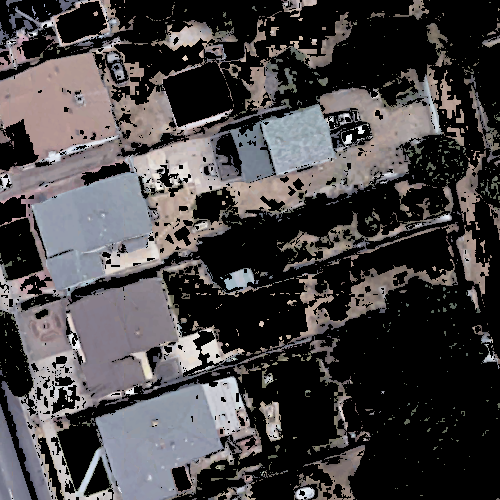
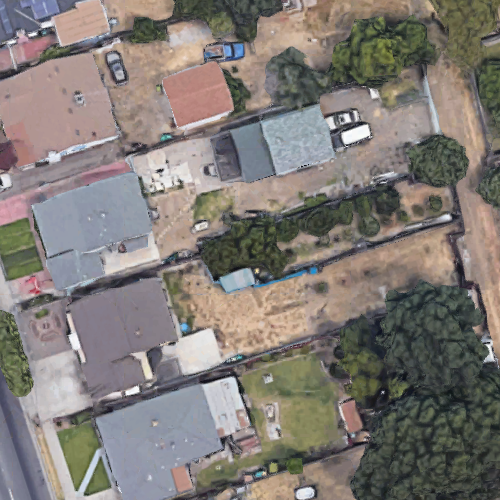
minimal

diff --git a/Satellite-CV/src/city.py b/Satellite-CV/src/city.py
@@ -8,6 +8,7 @@ import pandas
 import numpy as np
 import random
 from PIL import Image
+from src.shapedetector import ShapeDetector
 
 
 class City():
@@ -22,13 +23,12 @@ class City():
     __init__; find_green; crop_images; find_roofs; find_contours
 
     This class' local variables will eventually be used in the final dataframe,
-    which can be done through main.py. 
+    which can be done through main.py.
 
     """
 
     def __init__(self, name):
         self.name = name
-
         self.contoured = None
         self.contours = 0
         self.albedo = 0
@@ -63,6 +63,7 @@ class City():
 
             im1 = im.crop((left, top, right, bottom))
             im1.save(UserInputs.CROPPED_IMG_PATH + file)
+        print("____________IMAGES INITIALIZED____________")
 
 
     # find the green in all images
@@ -83,6 +84,7 @@ class City():
 
             ## save
             cv2.imwrite(UserInputs.GREEN_IMG_PATH + file, green)
+        print("____________GREEN IMAGES FOUND____________")
 
 
     # calculate the percentage of green pixels in individual images
@@ -118,25 +120,62 @@ class City():
     def calculate_HSroofs(self):
         return 0
 
+
     # find the and create images with only the roofs of images
     def find_roofs(self):
 
         for i, file in enumerate(os.listdir(UserInputs.CROPPED_IMG_PATH)):
-            im = cv2.imread(UserInputs.CROPPED_IMG_PATH + file)
-            hsv = cv2.cvtColor(im, cv2.COLOR_BGR2HSV)
+            image = cv2.imread(UserInputs.CROPPED_IMG_PATH + file)
 
-            ## mask of green (36,25,25) ~ (86, 255,255)
-            # mask = cv2.inRange(hsv, (36, 25, 25), (86, 255,255))
-            # can be changed depending on the environment
-            mask = cv2.inRange(hsv, (0, 5, 100), (179, 50, 255))
 
-            ## slice the green
-            imask = mask>0
-            gray = np.zeros_like(im, np.uint8)
-            gray[imask] = im[imask]
+            gray = cv2.cvtColor(image, cv2.COLOR_BGR2GRAY)
+            blurred = cv2.GaussianBlur(gray, (5, 5), 0)
+            thresh = cv2.threshold(blurred, 60, 255, cv2.THRESH_BINARY)[1]
 
-            ## save
-            cv2.imwrite(UserInputs.GRAY_IMG_PATH + file, gray)
+            ksize = 5
+            kernel = cv2.getStructuringElement(cv2.MORPH_RECT, (ksize,ksize))
+            thresh = cv2.morphologyEx(thresh, cv2.MORPH_OPEN, kernel)
+
+            cnts, _ = cv2.findContours(thresh.copy(), cv2.RETR_LIST, cv2.CHAIN_APPROX_SIMPLE)
+            # ~ cnts = cnts[0] if imutils.is_cv2() else cnts[1]
+            cnts = cnts[1]
+            sd = ShapeDetector()
+
+            for c in cnts:
+                M = cv2.moments(np.float32(c))
+                print(M)
+                if M["m00"] != 0:  # prevent divide by zero
+                    print('asdf')
+                    cX = int((M["m10"] / M["m00"]))
+                    cY = int((M["m01"] / M["m00"]))
+                    shape = sd.detect(c)
+
+                    c = c.astype("float")
+                    #c *= ratio
+                    c = c.astype("int")
+                    cv2.drawContours(image, [c], -1, (0, 255, 0), 2)
+                    cv2.putText(image, shape, (cX, cY), cv2.FONT_HERSHEY_SIMPLEX,
+                        0.5, (255, 0, 0), 2)
+
+            cv2.imwrite(UserInputs.GRAY_IMG_PATH + file, image)
+
+
+            # im = cv2.imread(UserInputs.CROPPED_IMG_PATH + file)
+            # hsv = cv2.cvtColor(im, cv2.COLOR_BGR2HSV)
+            #
+            # ## mask of green (36,25,25) ~ (86, 255,255)
+            # # mask = cv2.inRange(hsv, (36, 25, 25), (86, 255,255))
+            # # can be changed depending on the environment
+            # mask = cv2.inRange(hsv, (0, 5, 100), (179, 50, 255))
+            #
+            # ## slice the green
+            # imask = mask>0
+            # gray = np.zeros_like(im, np.uint8)
+            # gray[imask] = im[imask]
+            #
+            # ## save
+            # cv2.imwrite(UserInputs.GRAY_IMG_PATH + file, gray)
+        print("_____________ROOF AREAS FOUND_____________")
 
 
     # find the contours in all images (to be used for finding roofs later)
@@ -165,3 +204,4 @@ class City():
             # img = cv2.drawContours(white, contours, -1, (10, 0, 40), int((counter/2)) % 3 + 1)
             img = cv2.drawContours(white, contours, -1, (10, 0, 40), 2)
             cv2.imwrite(UserInputs.CONTOURS_IMG_PATH + file, img)
+        print("_____________CONTOURS CAPTURED____________")

diff --git a/Satellite-CV/outputs/dataframe.py b/Satellite-CV/outputs/dataframe.py
@@ -15,7 +15,12 @@ class DF():
     cannot.
 
     Main functions:
-    add_city; remove_city; write_excel; remove_excel; print_df
+    add_city_values; write_excel; remove_excel; print_df; add_calculated_city;
+    remove_city
+
+    Note: add_city_values adds web scraped values to the dataframe, and
+    add_calculated_city pulls calculated values (such as albedo, greenery)
+    in through a City object. remove_city deletes the entire row.
 
     For any singular run of the code base, only initialization of one DF is necessary.
 
@@ -37,7 +42,7 @@ class DF():
 
 
     # web scrape certain values for a specific city, add to dataframe
-    def add_city(self, city):
+    def add_city_values(self, city):
 
         num_none_values = len(self.columns) - len(self.scraped_columns)
         non_scraped_columns = [x for x in self.columns if x not in self.scraped_columns]
@@ -60,6 +65,12 @@ class DF():
                         "aligned, or web scraping returned incorrect values!")
 
 
+    # web scrape certain values for a specific city, add to dataframe
+    def add_calculated_city(self, City):
+
+        return 0
+
+
     # remove a specified city/row from the dataframe
     def remove_city(self, city):
         return 0
@@ -77,7 +88,7 @@ class DF():
             print("Error converting to Excel file!")
 
 
-    # delete a specified excel file 
+    # delete a specified excel file
     def remove_excel(self, sheet_name):
         try:
             os.remove(UserInputs.PATH + sheet_name)

diff --git a/Satellite-CV/main.py b/Satellite-CV/main.py
@@ -4,7 +4,7 @@ import numpy as np
 import ee
 import os
 import random, sys
-from inputs.city import City
+from src.city import City
 from UserInputs import UserInputs
 from PIL import Image
 from outputs.dataframe import DF
@@ -26,30 +26,25 @@ def delete_photos():
 
 # main function
 if __name__ == '__main__':
-    # print("_____________ROOF AREAS FOUND_____________")
-    # print("_____________CONTOURS CAPTURED____________")
 
     all_columns = UserInputs.DEFAULT_COLUMNS + ['albedo', 'HS Roofs', 'LS Roofs', 'Greenery']
 
     data = DF(all_columns, UserInputs.DEFAULT_COLUMNS, UserInputs.DEFAULT_SCRAPING_URL)
 
-    data.add_city('Boston')
-    data.add_city('Cambridge')
-    data.add_city('New Haven')
-    data.add_city('Houston')
-    data.add_city('Dallas')
+    data.add_city_values('Boston')
+    data.add_city_values('Cambridge')
+    data.add_city_values('New Haven')
+    data.add_city_values('Houston')
+    data.add_city_values('Dallas')
 
     data.print_df()
 
 
     boston = City('Boston')
-
     boston.crop_images()
-    print("____________IMAGES INITIALIZED____________")
-
-    boston.find_green()
-    print("____________GREEN IMAGES FOUND____________")
-
-    boston.percent_green()
+    # boston.find_green()
+    # boston.percent_green()
+    boston.find_contours()
+    # boston.find_roofs()
 
     # data.write_excel()

diff --git a/Satellite-CV/src/shapedetector.py b/Satellite-CV/src/shapedetector.py
@@ -1,0 +1,37 @@
+import cv2
+import numpy as np
+
+# from stackoverflow
+class ShapeDetector:
+    def __init__(self):
+        pass
+
+    def detect(self, c):
+        shape = "unidentified"
+
+        peri = cv2.arcLength(c, True)
+        approx = cv2.approxPolyDP(c, 0.04 * peri, True)
+
+        if len(approx) == 3:
+            shape = "triangle"
+
+        elif len(approx) == 4:
+            print("value of approx", approx)
+            (x, y, w, h) = cv2.boundingRect(approx)
+            ar = w / float(h)
+
+            print("value of ar",ar)
+            if (ar >= 0.95 and ar <= 1.05): shape = "Square"
+            elif (ar <= 5 and ar >= 3): shape = "Obround"
+            else: shape = "rectangle"
+
+        elif len(approx) == 5:
+            shape = "pentagon"
+        elif len(approx) == 2:
+            shape = "line"
+            print("value of approx", approx)
+        else:
+            shape = "circle"
+            print("value of approx", approx)
+
+        return shape
